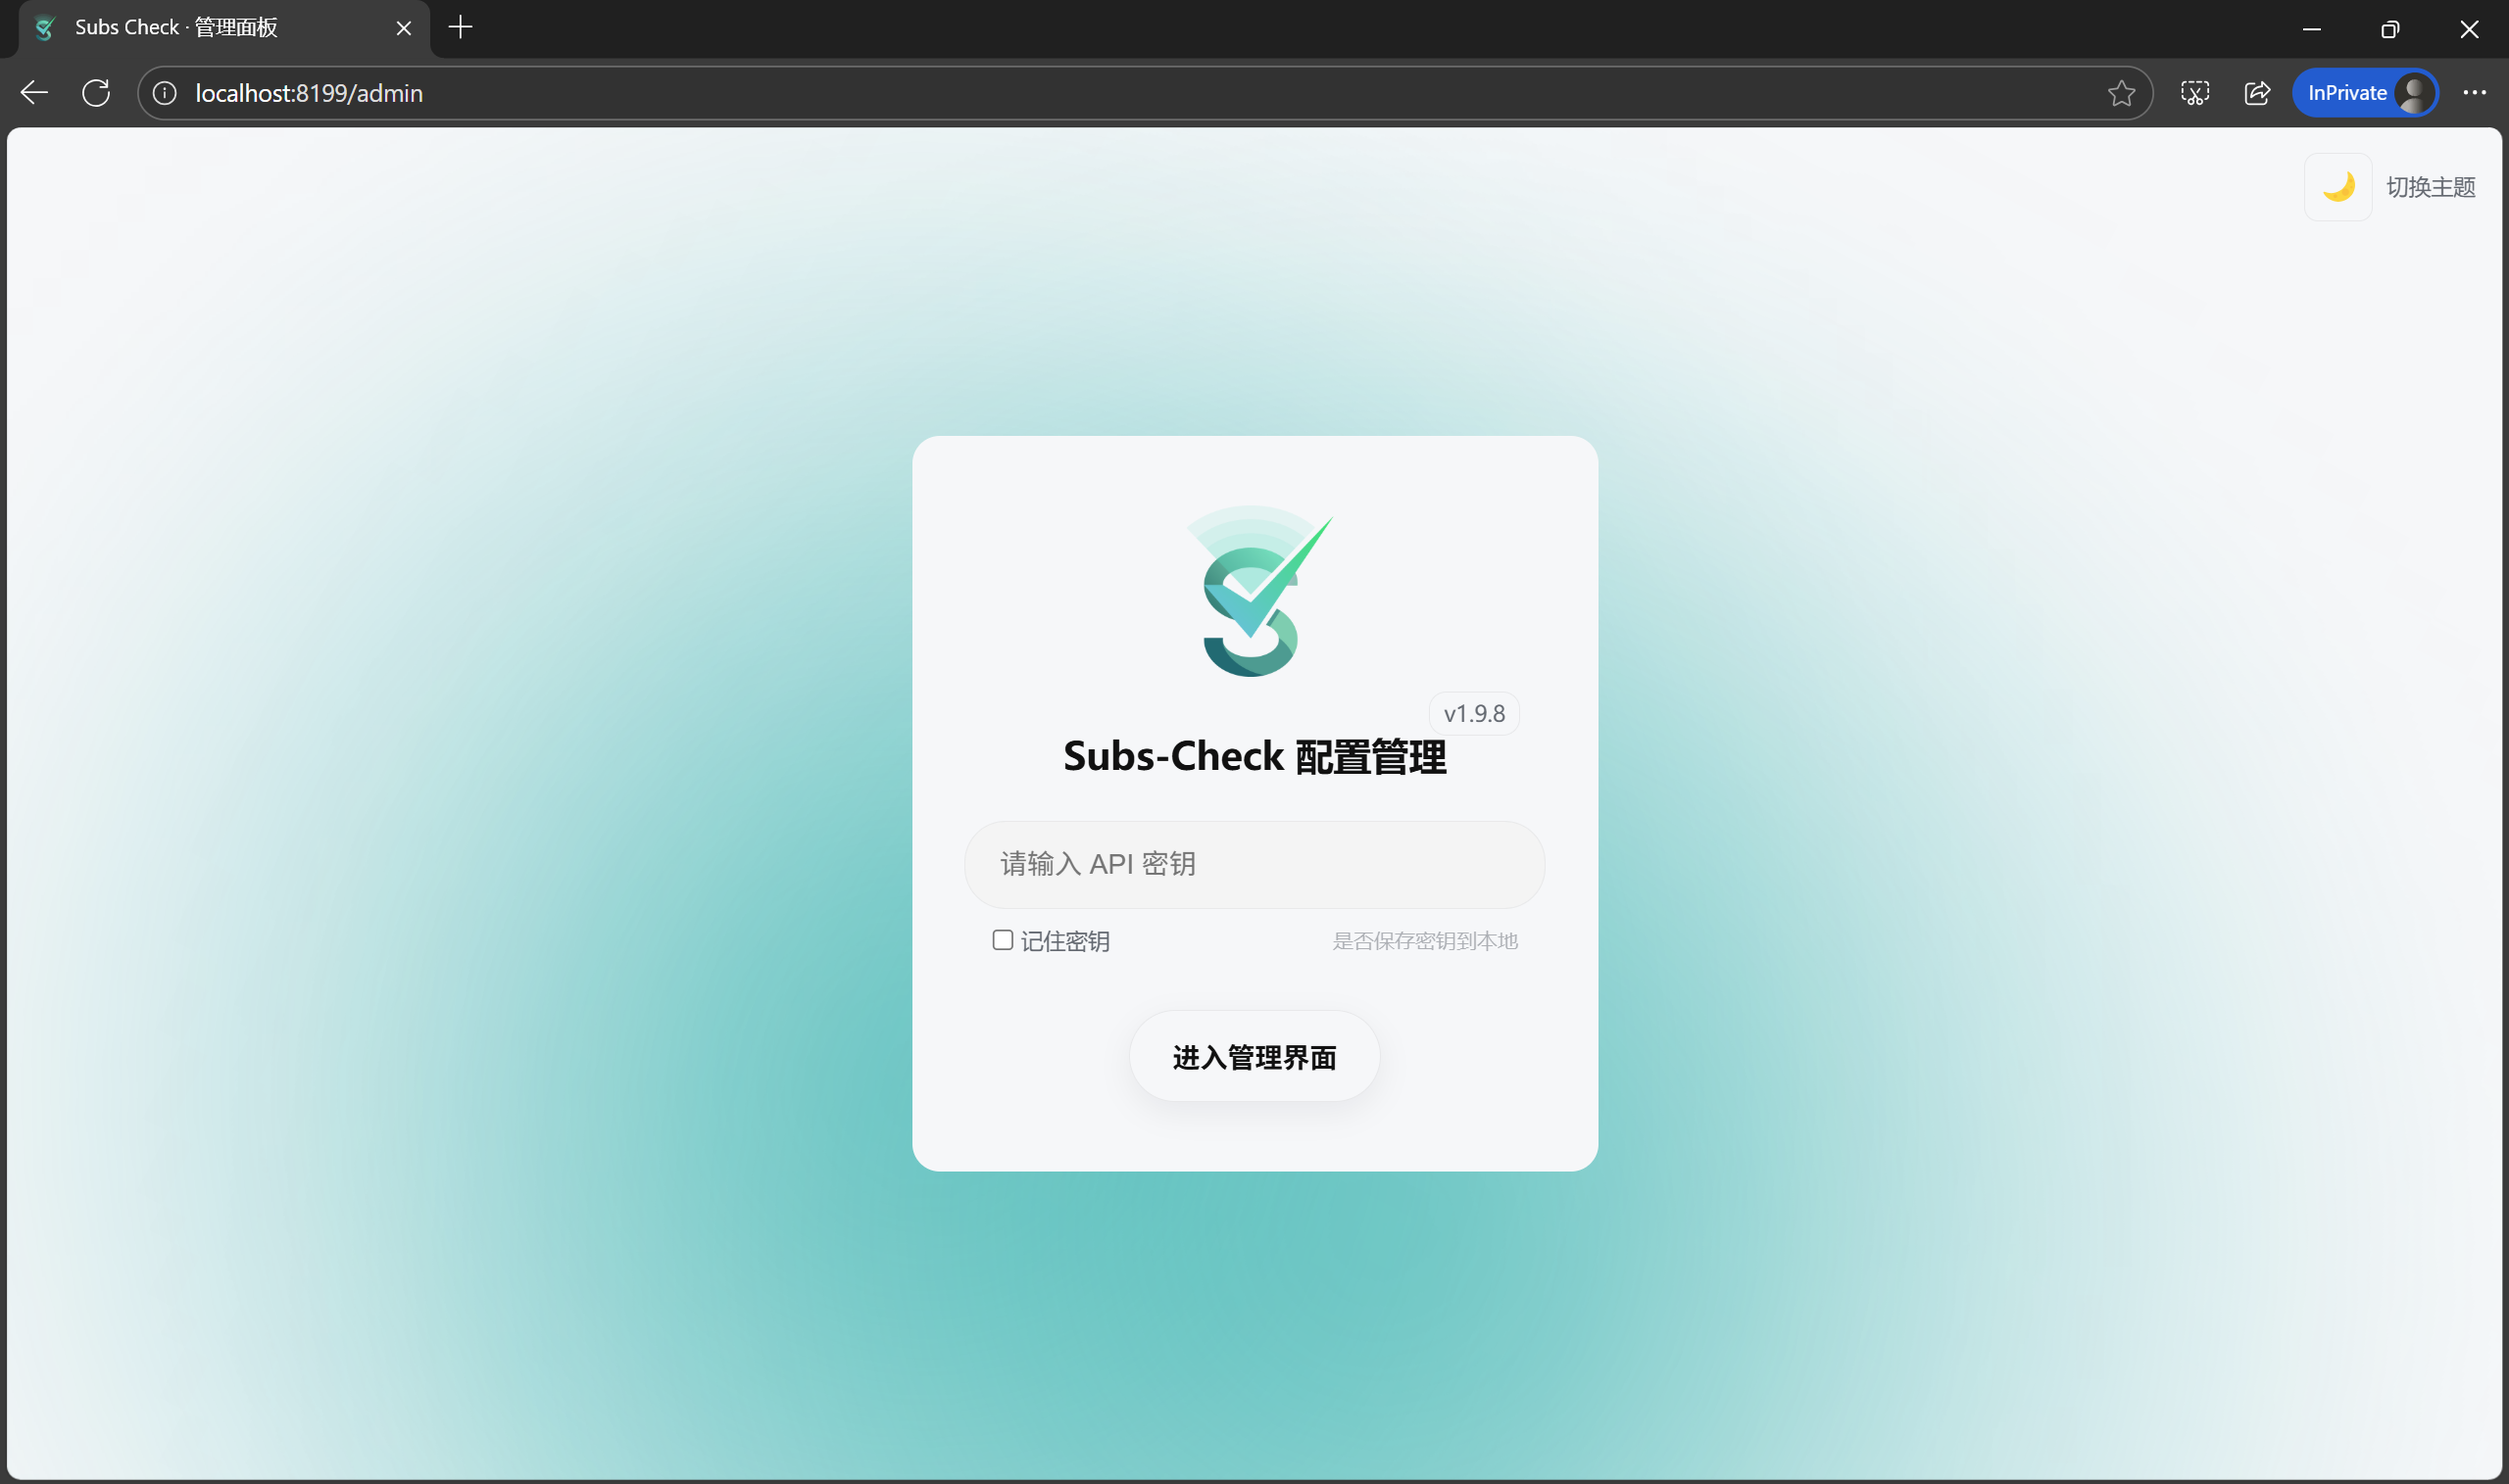
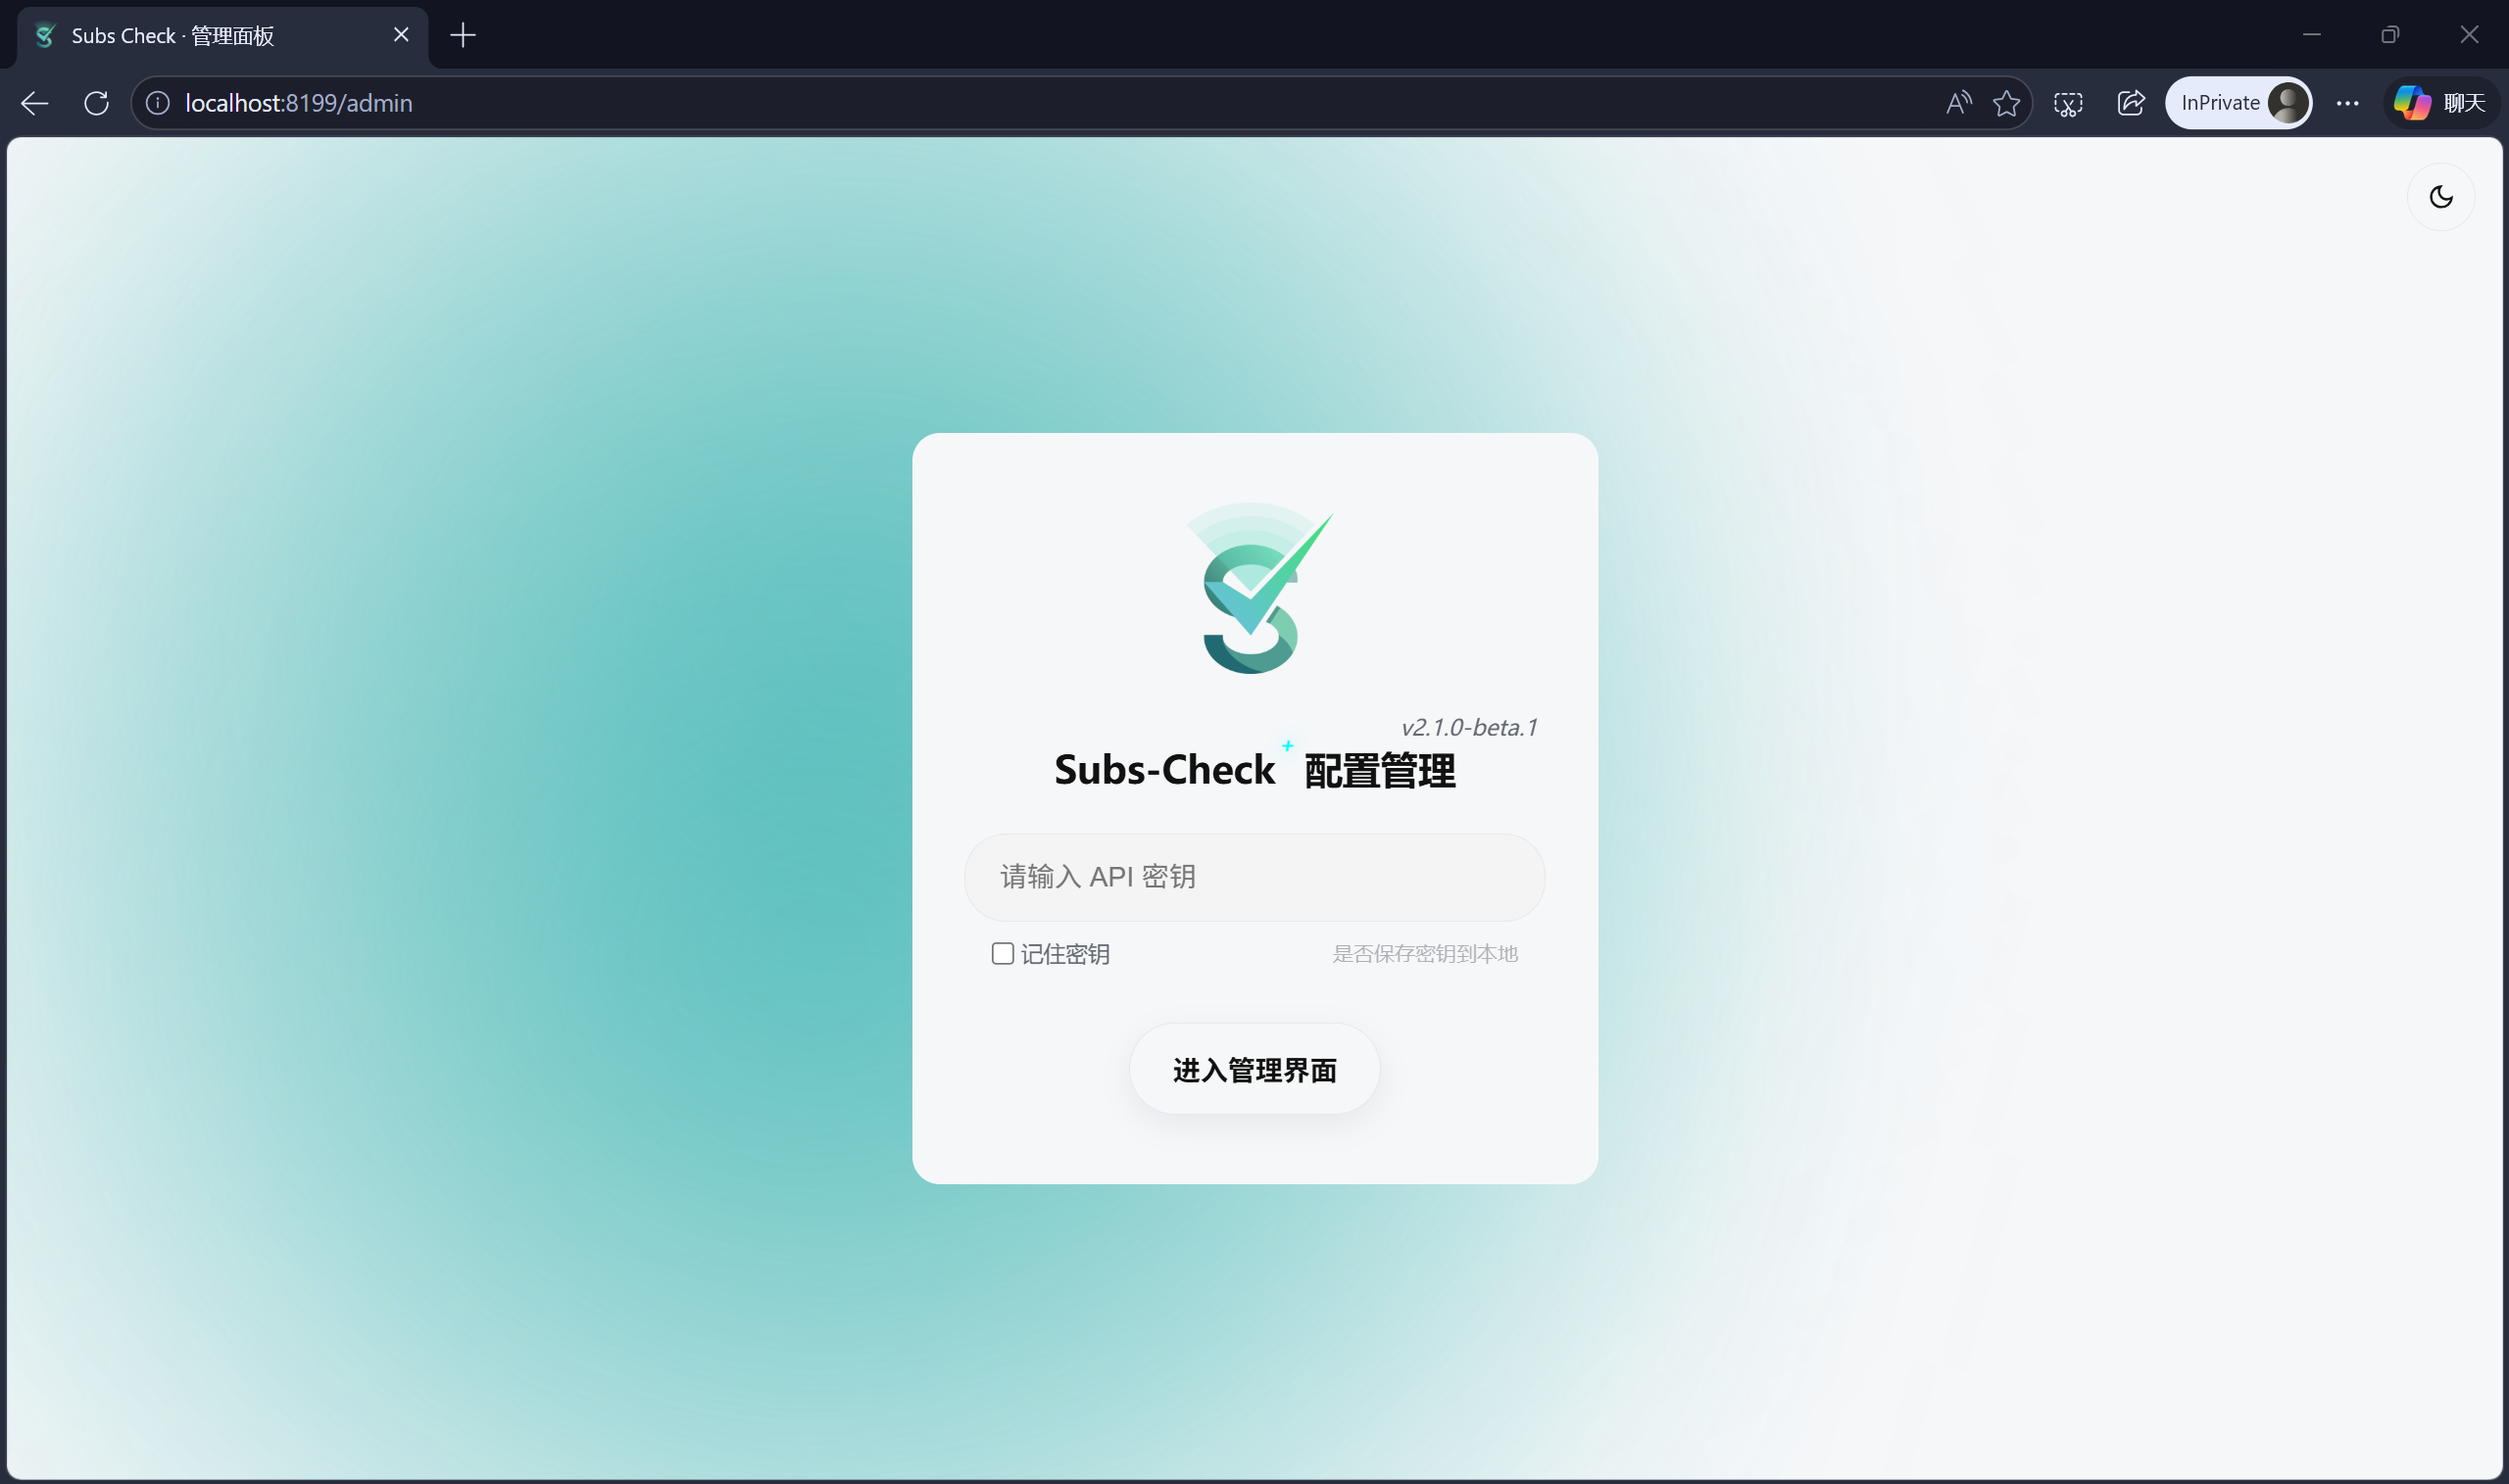
CI: bump version to v2.1.0

diff --git a/README.md b/README.md
@@ -40,11 +40,13 @@ High-performance proxy subscription checker.
 - [x] 🐳 支持 `docker` 部署
 - [x] 🪟 Windows 可搭配 [专门的 Windows 图形客户端](https://github.com/sinspired/SubsCheck-Win-GUI) 使用
 - [x] 📱 全新设计的 WebUI 管理界面，优化小屏设备访问体验
-- [x] ✏ 升级配置编辑器，支持根据 `config.yaml` 自动补全与高亮
+- [x] ✏ 升级配置编辑器，支持自动补全与高亮，内置预览与配置分析，GUI 式编辑
 - [x] 🧩 集成 `sub-store` 前端，WebUI 一键管理
 - [x] 6⃣ 支持 `IPv6` 代理节点
 - [x] 🔗 适配多种非标订阅格式，提高获取订阅成功率
 - [x] 📡 支持检测 `isp` 类型、`原生/广播IP`、住宅/机房
+- [x] 📂 内置文件管理页面（`/files`），方便查看与下载生成文件
+- [x] 📈 检测结果分析报告（`/analysis`），含地理位置与协议分布可视化
 - [ ] 🚧 本项目现接受 issue 反馈
 
 ### 📖 教程（Wiki）

diff --git a/docs-site/docs/File-Service.md b/docs-site/docs/File-Service.md
@@ -4,6 +4,11 @@ subs-check-pro 会在测试完后保存三个文件到 `output/sub` 目录中；
 
 ⚠ 为方便使用 Cloudflare 隧道映射等方案在公网访问，本项目取消了对 `output` 文件夹的无限制访问。
 
+访问 `http://localhost:8199/files` 进入内置文件服务
+
+![file-hub](https://raw.githubusercontent.com/sinspired/subs-check-pro/main/doc/images/file-hub.png)
+
+
 ## 🔐 使用分享码分享（推荐）
 
 设置 `share-password`，使用分享码进行分享。可分享 `/output/sub` 目录的文件，比如 `all.yaml`、`mihomo.yaml`：
